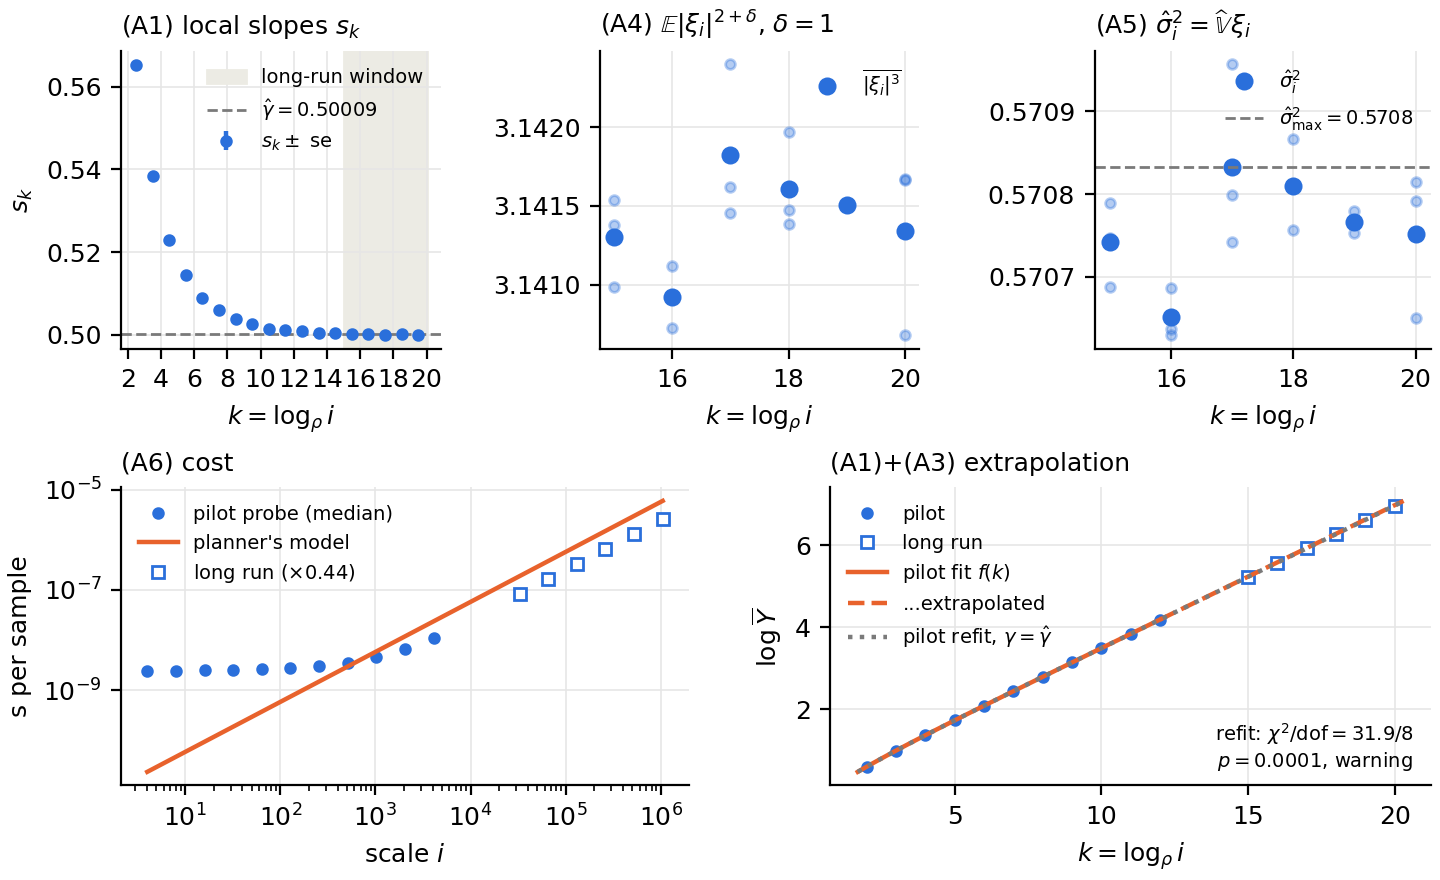
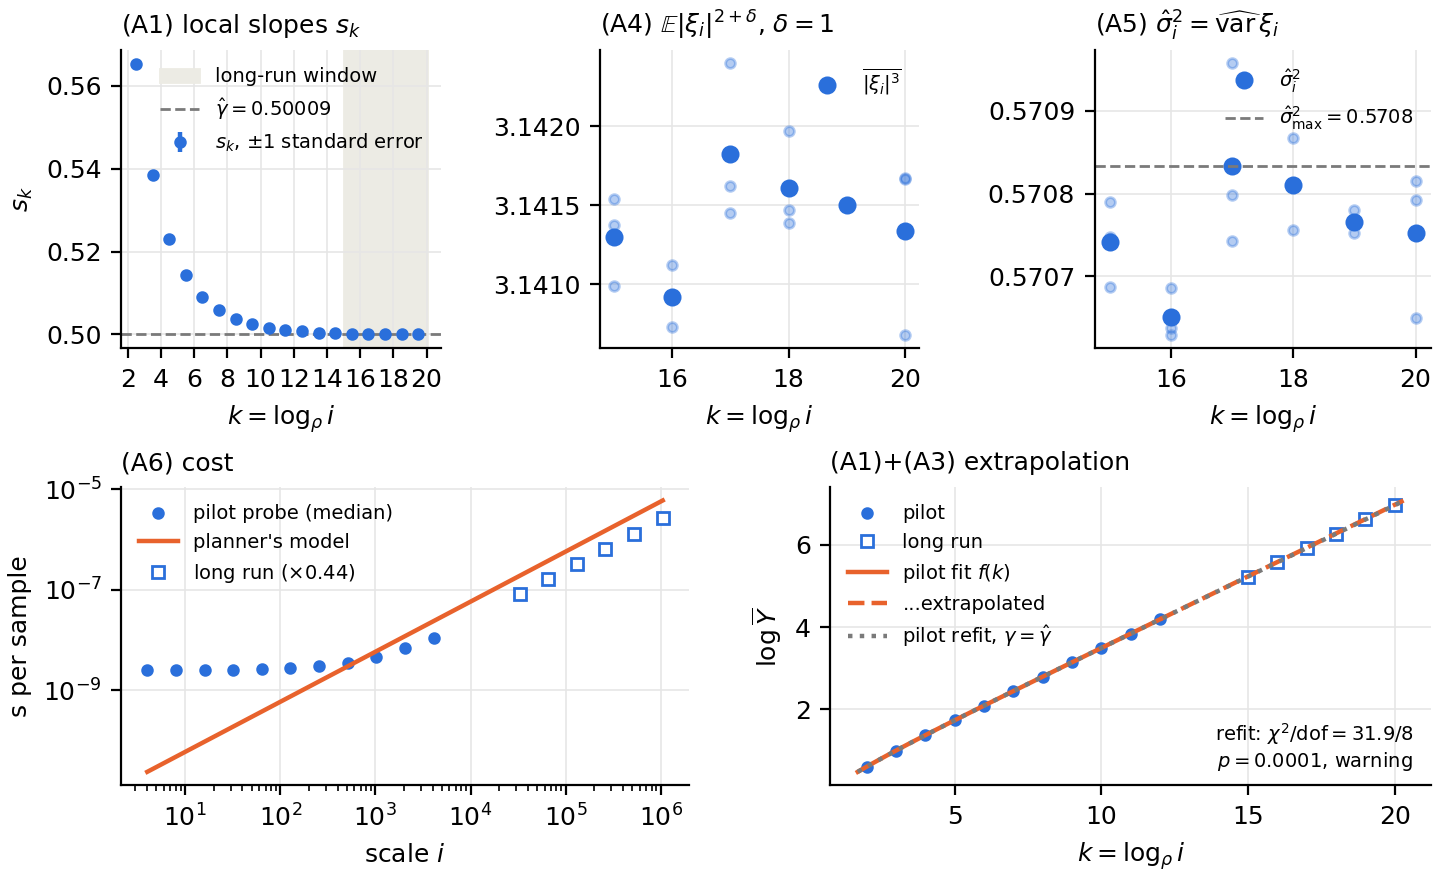
relabel the pipeline figures: beta slope, alpha intercept, var, no 'se'

diff --git a/experiments/46_pipeline_erwurn_gpu/plot_pipeline.py b/experiments/46_pipeline_erwurn_gpu/plot_pipeline.py
@@ -111,7 +111,7 @@ def fig_pilot(d: dict, rho: float):
 
     ax.errorbar(k, y, yerr=se, fmt="o", color=DATA, label=r"$\log\overline{Y}_{\rho^k}$")
     ax.plot(kk, full(kk), color=FIT, label=r"fit $f(k)$")
-    ax.plot(kk, asym(kk), "--", color=REF, lw=1.1, label=r"asymptote $\hat\alpha k+\hat\beta$")
+    ax.plot(kk, asym(kk), "--", color=REF, lw=1.1, label=r"asymptote $\hat\beta k+\hat\alpha$")
     ax.set_ylabel(r"$\log\overline{Y}$")
     ax.legend(loc="upper left")
     ax.tick_params(labelbottom=False)
@@ -210,7 +210,7 @@ def fig_extrapolation(d: dict, rho: float):
     ax.plot(kk, full(kk) - asym(kk), color=FIT, label=r"$\hat a_1\rho^{-\hat\omega_1 k}$")
     ax.axhline(0, color=REF, lw=0.8, ls="--")
     ax.set_xlabel(r"$k=\log_\rho i$")
-    ax.set_ylabel(r"$\log\overline{Y}-(\hat\alpha k+\hat\beta)$")
+    ax.set_ylabel(r"$\log\overline{Y}-(\hat\beta k+\hat\alpha)$")
     ax.legend(loc="lower right")
     ax.set_title("pilot correction, extrapolated", fontsize=9, loc="left")
     return fig
@@ -265,7 +265,7 @@ def fig_checks(d: dict, rho: float):
     ks = np.log(ls["scales"][:-1]) / math.log(rho) + 0.5
     ax.axvspan(k[0], k[-1], color=WINDOW, label="long-run window")
     ax.errorbar(ks, ls["s"], yerr=ls["se_s"], fmt="o", color=DATA, ms=3.5,
-                label=r"$s_k \pm$ se")
+                label=r"$s_k$, $\pm 1$ standard error")
     ax.axhline(d["answer"]["gamma"], color=REF, ls="--", lw=1,
                label=rf"$\hat\gamma={d['answer']['gamma']:.5f}$")
     ax.set_ylabel(r"$s_k$")
@@ -280,7 +280,7 @@ def fig_checks(d: dict, rho: float):
     ax = ax_["A5"]
     s2 = per_rep(ax, [np.square(r["cv"]) for r in reps], r"$\hat\sigma_i^2$")
     ax.axhline(s2.max(), color=REF, ls="--", lw=1, label=rf"$\hat\sigma^2_{{\max}}={s2.max():.4f}$")
-    ax.set_title(r"(A5) $\hat\sigma_i^2=\widehat{\mathbb{V}}\,\xi_i$", fontsize=9, loc="left")
+    ax.set_title(r"(A5) $\hat\sigma_i^2=\widehat{\mathrm{var}}\,\xi_i$", fontsize=9, loc="left")
 
     ax = ax_["A6"]
     c = pilot["cost"]
